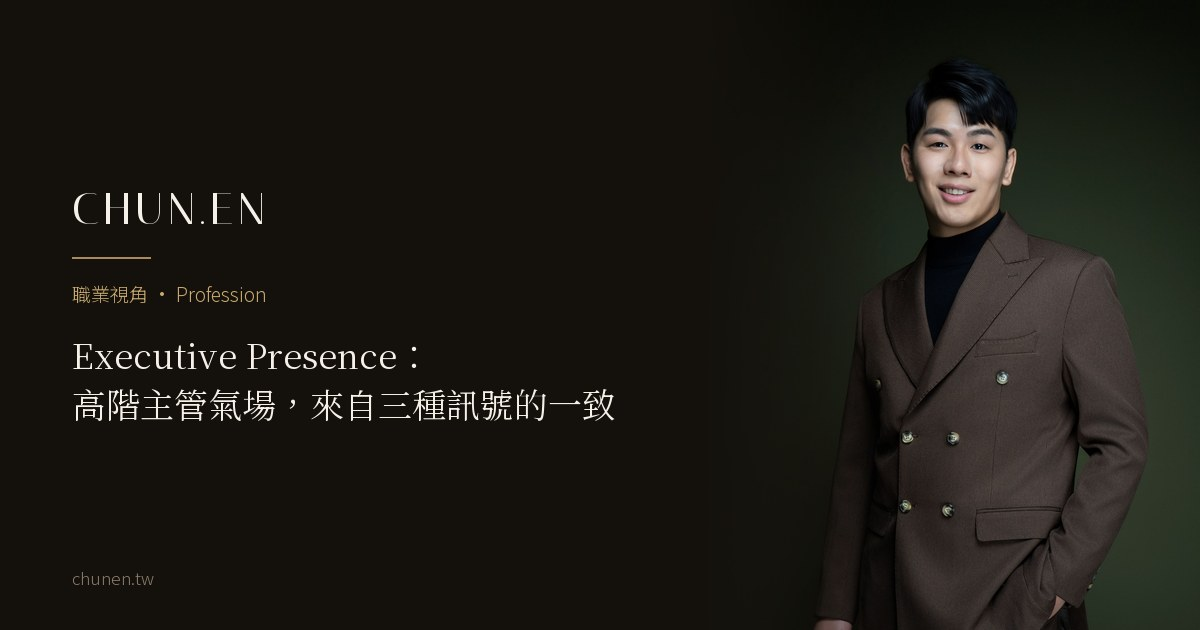
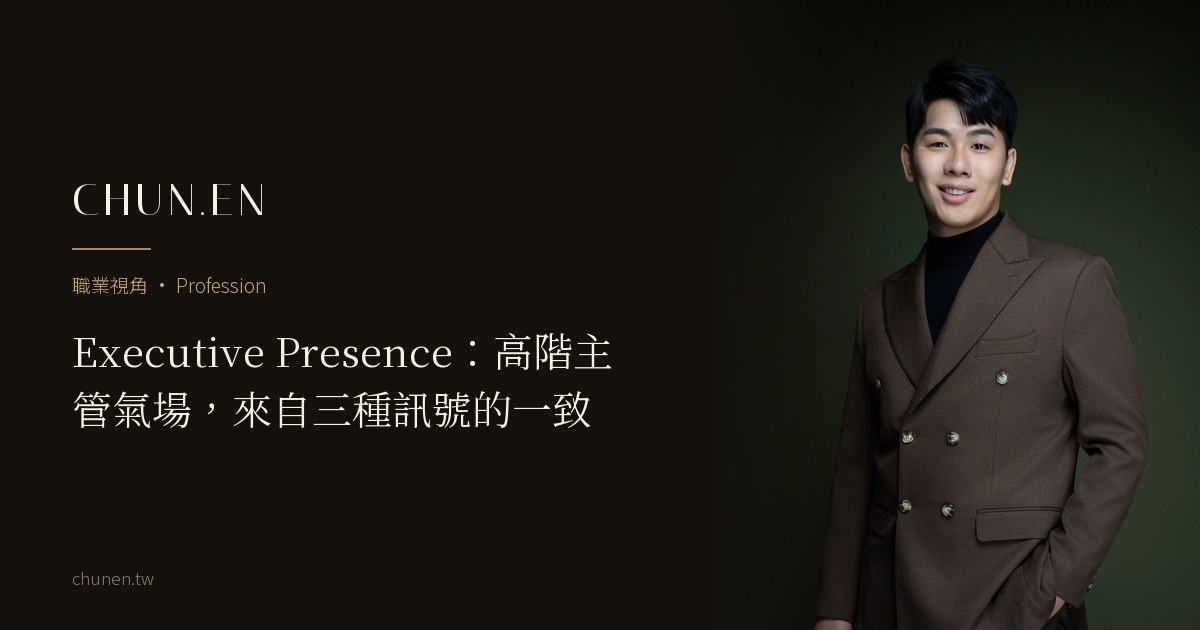
journal: B1 企業決策線三篇上架前修正（H1 斷行、抄襲相鄰句、單一歸因、og 卡重產）
- 三篇 H1 從硬 <br> 改成語意段各包 white-space:nowrap 的 span（實測桌機每行 10 字、
  手機 9 字，固定斷點必產生孤行）；prepublish 的 H1 斷行檢查歸零。
- financial：「照片是這段關係的第一句話」改寫。抄襲比對發現這是與競品〈保險經理
  形象照〉（他們寫「還沒開口說話前，已經替你說了第一句話」）唯一相鄰的隱喻，換掉
  讓比對結果乾淨。「開口之前」不改，那是品類通用洞察，我們已公開的醫師篇也在用。
- executive：「氣場訊號決定的是」→「影響的是」（單一因素歸因）。
- 三張 og 分享卡重產（H1 標記改動後卡片標題比對會過期）。

抄襲比對（2026-08-14 實抓對手 sitemap，55 篇）：主管與講師線對手零篇＝空白區；
financial 對撞〈保險經理形象照〉，其 H2 架構（投影幕／團隊門面／照片出現在哪／
拍攝前準備／時機）與我們完全不同，唯一相鄰句已處理。

diff --git a/journal/executive-presence-explained.html b/journal/executive-presence-explained.html
@@ -70,7 +70,7 @@
     <header style="padding: clamp(9rem, 16vh, 11rem) 0 clamp(2rem, 4vh, 3rem);">
       <div class="wrap article-wrap">
         <p class="hero-eyebrow rv">職業視角 · Profession</p>
-        <h1 class="rv rv-d1" style="font-weight: 300; font-size: clamp(1.9rem, 4.4vw, 3.2rem); line-height: 1.4; margin-top: 1rem;">Executive Presence：<br>高階主管氣場，來自<em style="font-style:normal;color:var(--gold-light);">三種訊號的一致</em></h1>
+        <h1 class="rv rv-d1" style="font-weight: 300; font-size: clamp(1.9rem, 4.4vw, 3.2rem); line-height: 1.4; margin-top: 1rem;"><span style="white-space:nowrap;">Executive Presence：</span><span style="white-space:nowrap;">高階主管氣場，</span><span style="white-space:nowrap;">來自<em style="font-style:normal;color:var(--gold-light);">三種訊號的一致</em></span></h1>
         <p class="article-meta rv rv-d2">CHUN.EN 觀點 · 2026 · 閱讀約 6 分鐘</p>
       </div>
     </header>
@@ -142,7 +142,7 @@
 
         <h2>常見<em>問題</em></h2>
         <div class="faq">
-          <details><summary>我不是執行長，這對中階主管也適用嗎？<span class="mark">+</span></summary><div class="a">適用，而且更關鍵。Executive presence 的原始研究關注的正是「誰會被視為可以晉升的人」。在你還不是執行長的時候，氣場訊號決定的是別人願不願意想像你坐上那個位子。</div></details>
+          <details><summary>我不是執行長，這對中階主管也適用嗎？<span class="mark">+</span></summary><div class="a">適用，而且更關鍵。Executive presence 的原始研究關注的正是「誰會被視為可以晉升的人」。在你還不是執行長的時候，氣場訊號影響的是別人願不願意想像你坐上那個位子。</div></details>
           <details><summary>女性主管的氣場標準會不一樣嗎？<span class="mark">+</span></summary><div class="a">研究確實指出女性面對更窄的評分區間：太溫和被視為不夠力，太強勢又被扣分。這正是把定位想清楚，對女性領導者更重要的原因：先講清楚自己的角色，才不會被別人套模板。</div></details>
           <details><summary>氣場可以速成嗎？<span class="mark">+</span></summary><div class="a">不能。份量感、信譽與溝通都要時間累積；外表可以先整理。但整理的目的不是裝成另一個職位，而是先把跟實力對不上的訊號移掉，讓你的專業不必從克服第一印象開始。</div></details>
         </div>
@@ -210,7 +210,7 @@
     "@context": "https://schema.org",
     "@type": "FAQPage",
     "mainEntity": [
-      {"@type": "Question", "name": "我不是執行長，這對中階主管也適用嗎？", "acceptedAnswer": {"@type": "Answer", "text": "適用，而且更關鍵。Executive presence 的原始研究關注的正是「誰會被視為可以晉升的人」。在你還不是執行長的時候，氣場訊號決定的是別人願不願意想像你坐上那個位子。"}},
+      {"@type": "Question", "name": "我不是執行長，這對中階主管也適用嗎？", "acceptedAnswer": {"@type": "Answer", "text": "適用，而且更關鍵。Executive presence 的原始研究關注的正是「誰會被視為可以晉升的人」。在你還不是執行長的時候，氣場訊號影響的是別人願不願意想像你坐上那個位子。"}},
       {"@type": "Question", "name": "女性主管的氣場標準會不一樣嗎？", "acceptedAnswer": {"@type": "Answer", "text": "研究確實指出女性面對更窄的評分區間：太溫和被視為不夠力，太強勢又被扣分。這正是把定位想清楚，對女性領導者更重要的原因：先講清楚自己的角色，才不會被別人套模板。"}},
       {"@type": "Question", "name": "氣場可以速成嗎？", "acceptedAnswer": {"@type": "Answer", "text": "不能。份量感、信譽與溝通都要時間累積；外表可以先整理。但整理的目的不是裝成另一個職位，而是先把跟實力對不上的訊號移掉，讓你的專業不必從克服第一印象開始。"}}
     ]

diff --git a/journal/speaker-trainer-portrait.html b/journal/speaker-trainer-portrait.html
@@ -70,7 +70,7 @@
     <header style="padding: clamp(9rem, 16vh, 11rem) 0 clamp(2rem, 4vh, 3rem);">
       <div class="wrap article-wrap">
         <p class="hero-eyebrow rv">職業視角 · Profession</p>
-        <h1 class="rv rv-d1" style="font-weight: 300; font-size: clamp(1.9rem, 4.4vw, 3.2rem); line-height: 1.4; margin-top: 1rem;">講師形象照：<br>你還沒上台，照片已經<em style="font-style:normal;color:var(--gold-light);">先進入提案</em></h1>
+        <h1 class="rv rv-d1" style="font-weight: 300; font-size: clamp(1.9rem, 4.4vw, 3.2rem); line-height: 1.4; margin-top: 1rem;"><span style="white-space:nowrap;">講師形象照：</span><span style="white-space:nowrap;">你還沒上台，</span><span style="white-space:nowrap;">照片已經<em style="font-style:normal;color:var(--gold-light);">先進入提案</em></span></h1>
         <p class="article-meta rv rv-d2">CHUN.EN 觀點 · 2026 · 閱讀約 5 分鐘</p>
       </div>
     </header>
@@ -129,7 +129,7 @@
         <h2>講師最容易漏掉的，不是張數，是<em>版位</em></h2>
         <p>很多講師拍完一組照片才發現，每一張都是人物置中、背景塞滿，放進海報或簡報時完全沒有位置可以下標題。</p>
         <p>所以拍之前要整理的不只是造型，還有這組照片未來會出現在哪裡。一組真的堪用的講師素材，通常要同時顧到：可以裁成正方或圓形的頭肩照（個人檔案、講師名單）、直式人物照（社群、講師卡、活動海報）、橫式留白照（課程頁、簡報封面、媒體橫幅）、帶動作的全身畫面（主視覺、大圖輸出），還有不同表情與視線方向，讓文案和版面有調整的餘地。</p>
-        <p><strong>拍得好只是及格，拍的時候有沒有替後面的版位留位置，才決定這組照片能用多久。</strong>怎麼把一組照片分配到各個版位，〈<a href="portrait-deployment-map.html">一組照片的部署地圖</a>〉講得更完整。</p>
+        <p><strong>拍得好只是及格，拍的時候有沒有替後面的版位留位置，才決定這組照片能用多久。</strong>照片為什麼常常沒被用上，〈<a href="after-the-shoot.html">拍完形象照之後</a>〉講得更完整。</p>
 
         <h2>先定位，再進棚：CHUN.EN 怎麼做講師形象</h2>
         <p>拍之前，我們會先問一個多數講師沒被問過的問題：<a href="which-version-of-you.html">你要被記住的，是你的哪一面</a>？是嚴謹的專家、犀利的教練，還是溫暖的引導者？</p>

diff --git a/journal/financial-advisor-portrait-trust.html b/journal/financial-advisor-portrait-trust.html
@@ -70,7 +70,7 @@
     <header style="padding: clamp(9rem, 16vh, 11rem) 0 clamp(2rem, 4vh, 3rem);">
       <div class="wrap article-wrap">
         <p class="hero-eyebrow rv">職業視角 · Profession</p>
-        <h1 class="rv rv-d1" style="font-weight: 300; font-size: clamp(1.9rem, 4.4vw, 3.2rem); line-height: 1.4; margin-top: 1rem;">金融業形象照：<br>穿對西裝，<em style="font-style:normal;color:var(--gold-light);">為什麼還是不夠</em>？</h1>
+        <h1 class="rv rv-d1" style="font-weight: 300; font-size: clamp(1.9rem, 4.4vw, 3.2rem); line-height: 1.4; margin-top: 1rem;"><span style="white-space:nowrap;">金融業形象照：</span><span style="white-space:nowrap;">穿對西裝，</span><span style="white-space:nowrap;"><em style="font-style:normal;color:var(--gold-light);">為什麼還是不夠</em>？</span></h1>
         <p class="article-meta rv rv-d2">CHUN.EN 觀點 · 2026 · 閱讀約 5 分鐘</p>
       </div>
     </header>
@@ -129,7 +129,7 @@
 
         <h2>從「拍一張」到「經營信任」：CHUN.EN 怎麼做</h2>
         <p>我們不會直接讓你進棚。金融業的形象照，得先從<a href="../a-voir.html">定位</a>開始：你服務的是高資產客戶、是首購族、還是企業主？不同客群，要的「穩」長得不一樣。定位清楚了，服裝與妝髮才知道要往哪裡收（<a href="../b-room.html">B.room</a> 的分寸感在這裡最關鍵，專業感不是靠濃，是靠準），最後才由<a href="../c-photos.html">影像</a>把這套訊號精準定格，並交付一組能同時用在名片、LinkedIn、官網與提案的照片。</p>
-        <p>說到底，這一行經營的是一段長期關係，而照片是這段關係的第一句話。<strong>把第一句話說穩，後面的信任才有地基。</strong></p>
+        <p>說到底，這一行經營的是一段長期關係，而照片通常出現在關係開始之前。<strong>它先站穩了，後面的信任才有地基。</strong></p>
 
         <h2>最後，留一個問題<em>給你</em></h2>
         <p>現在打開你的名片、LinkedIn 和公司官網，把三張照片放在一起看：</p>
